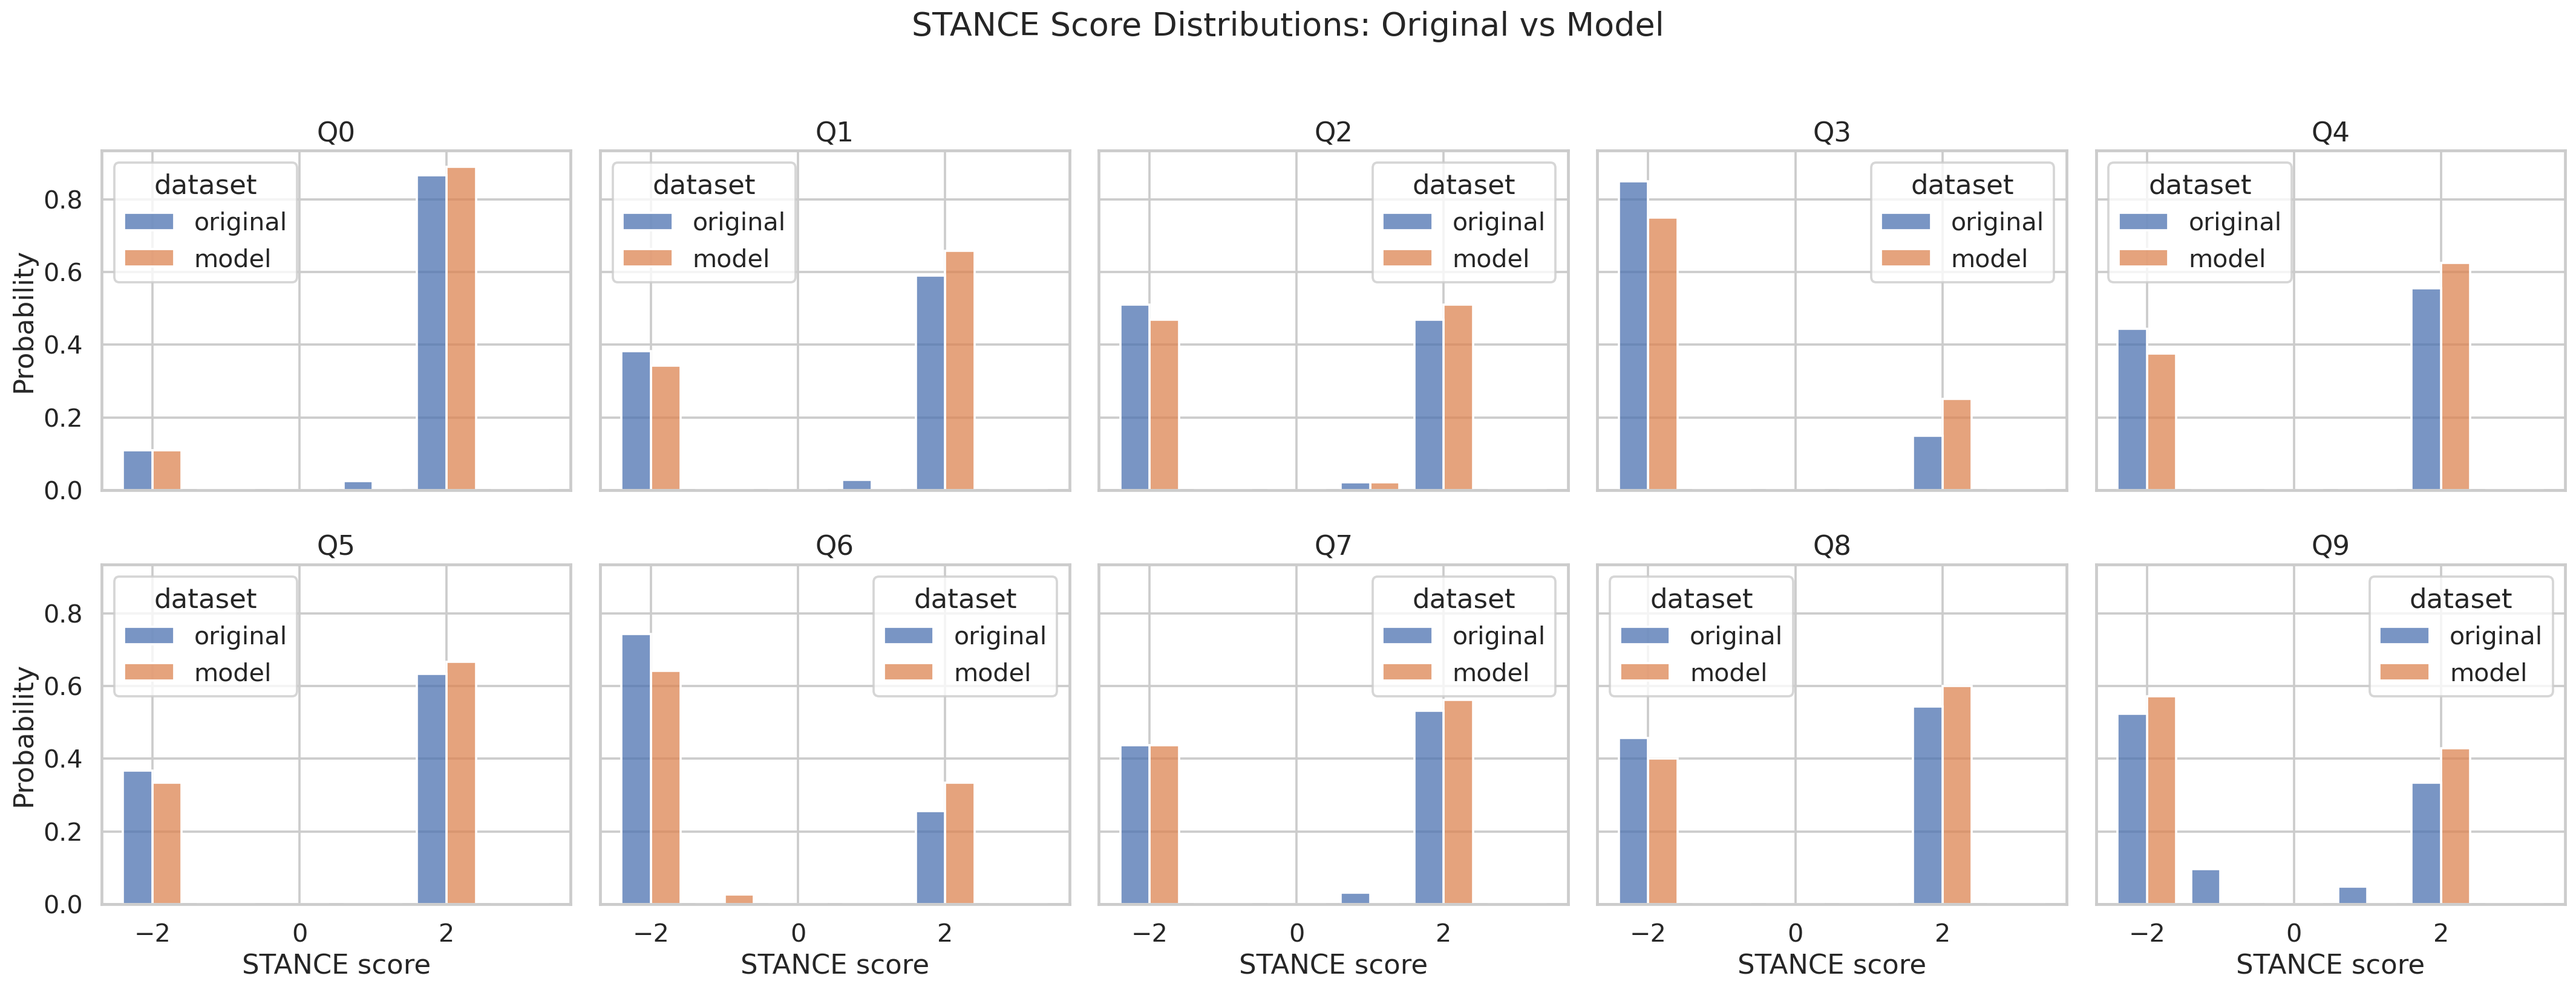
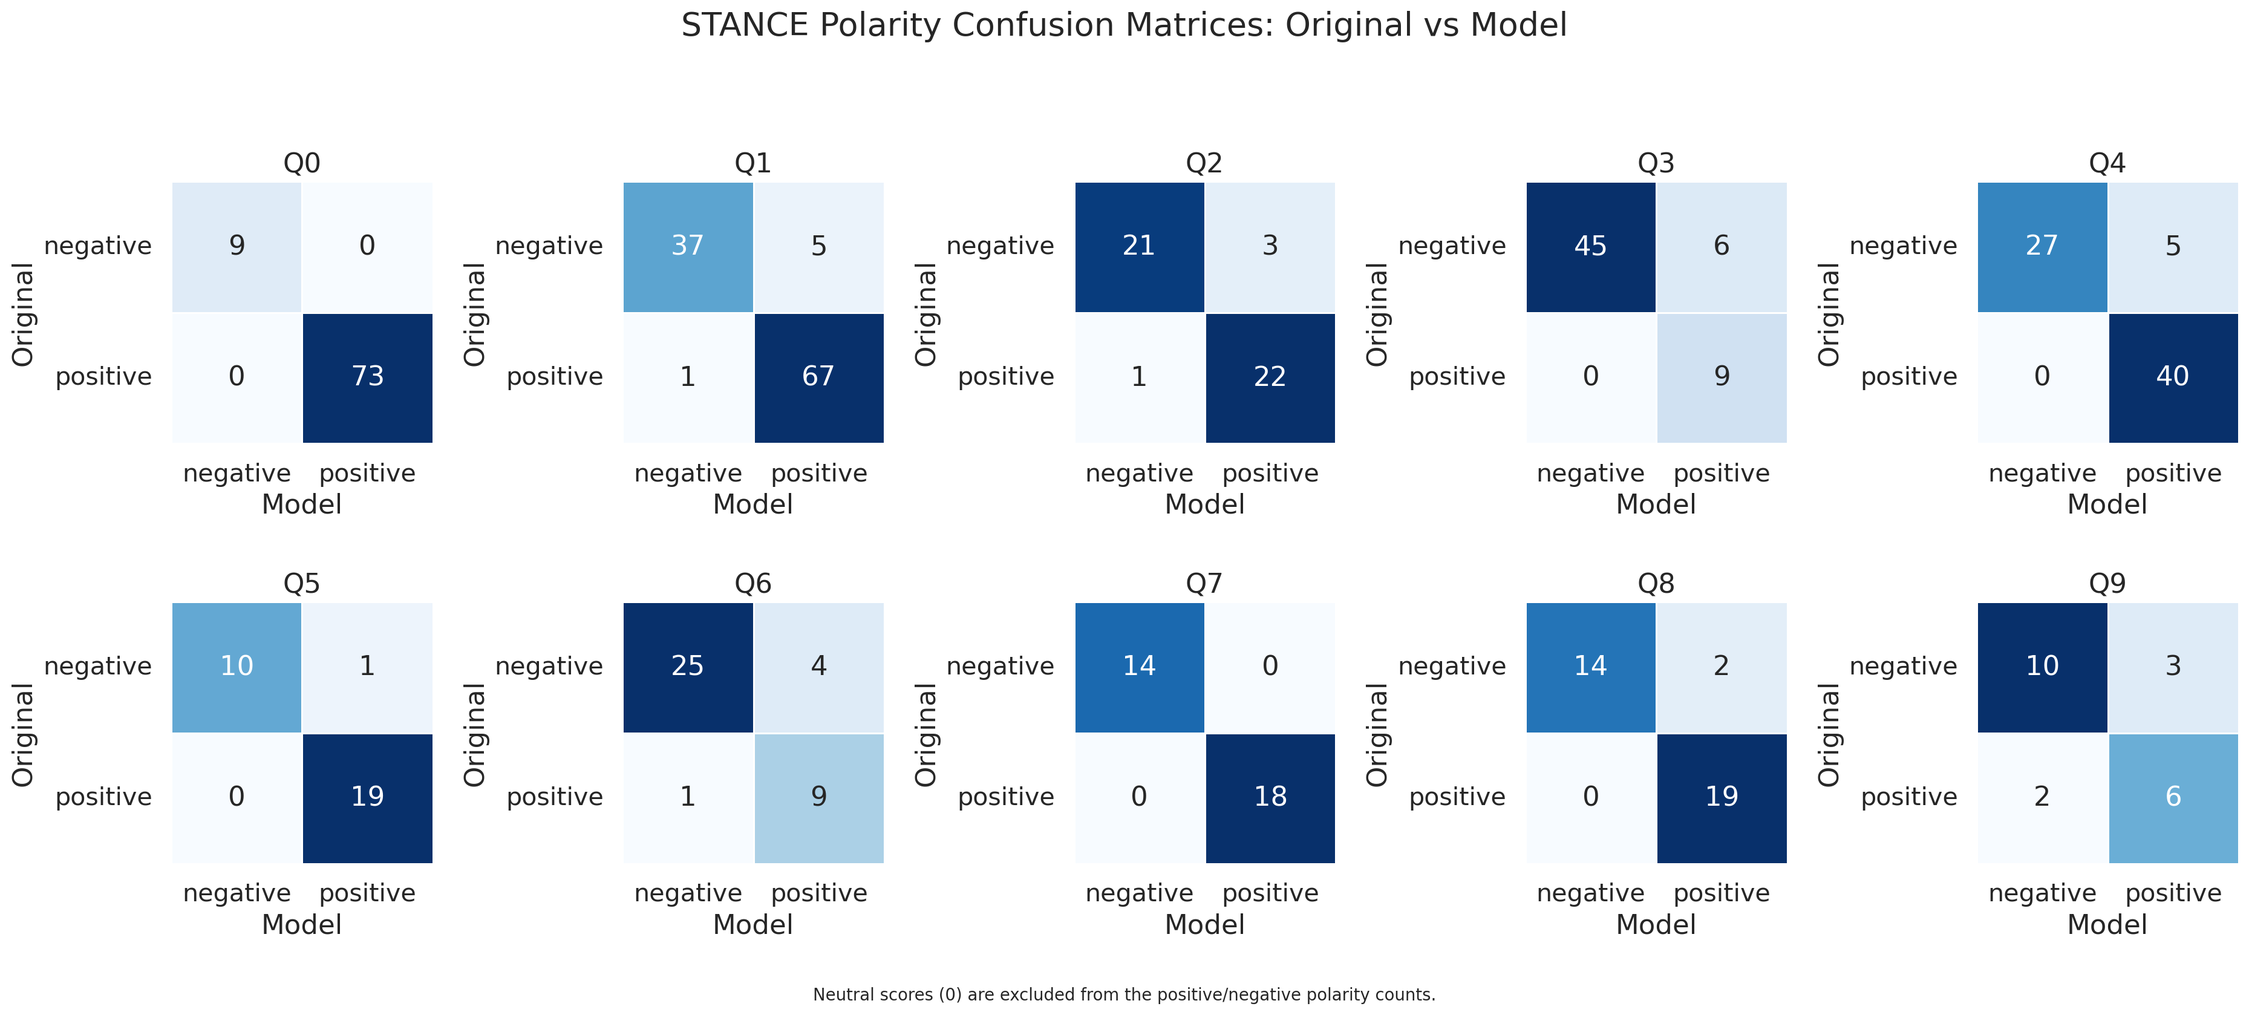
removed question duration from the graphs, changed stances summary graph by a confusion matrix

diff --git a/reports/gpt-4o-audio-preview-2025-06-03/detailed_report.html b/reports/gpt-4o-audio-preview-2025-06-03/detailed_report.html
@@ -44,7 +44,7 @@
 <p><strong>Mean STANCE diff:</strong> 0.1914 across 10 stances</p>
 <p><strong>Best explainable AUROC:</strong> lexical_mtld (0.9426)</p></section>
 <section class="card"><h3>Naturalistic</h3>
-<p><strong>Basic metrics:</strong> 2 metrics summarized</p>
+<p><strong>Basic metrics:</strong> 3 metrics summarized</p>
 <p><strong>Best explainable AUROC:</strong> lexical_mattr_large (0.9233)</p></section></div>
   </section>
 
@@ -117,6 +117,15 @@
       <td>1.4719</td>
       <td>1.288e-59</td>
       <td>1893</td>
+      <td>model-original mean difference; p-value is Welch t-test</td>
+    </tr>
+    <tr>
+      <td>naturalistic</td>
+      <td>latency</td>
+      <td>-769.1915</td>
+      <td>1464.8823</td>
+      <td>5.656e-111</td>
+      <td>2055</td>
       <td>model-original mean difference; p-value is Welch t-test</td>
     </tr>
   </tbody>
@@ -424,15 +433,6 @@
       <td>0.5810</td>
     </tr>
     <tr>
-      <td>question_end_time</td>
-      <td>0.0116</td>
-      <td>10.3238</td>
-      <td>0.9696</td>
-      <td>1151</td>
-      <td>0.5000</td>
-      <td>0.4998</td>
-    </tr>
-    <tr>
       <td>f0_p10</td>
       <td>-4.9432</td>
       <td>33.8736</td>
@@ -476,6 +476,15 @@
       <td>1082</td>
       <td>0.5116</td>
       <td>0.5266</td>
+    </tr>
+    <tr>
+      <td>lexical_hapax_ratio</td>
+      <td>-2.236e-05</td>
+      <td>0.2631</td>
+      <td>0.9977</td>
+      <td>1151</td>
+      <td>0.5300</td>
+      <td>0.5367</td>
     </tr>
   </tbody>
 </table><h3>Naturalistic</h3><h4>Highest AUROC Features</h4><table class="dataframe metric-table">
@@ -632,15 +641,6 @@
       <td>0.4269</td>
     </tr>
     <tr>
-      <td>question_end_time</td>
-      <td>0.0074</td>
-      <td>12.8024</td>
-      <td>0.9791</td>
-      <td>2055</td>
-      <td>0.5002</td>
-      <td>0.5001</td>
-    </tr>
-    <tr>
       <td>f0_median_raw</td>
       <td>-6.0808</td>
       <td>48.6001</td>
@@ -685,6 +685,15 @@
       <td>0.5270</td>
       <td>0.5403</td>
     </tr>
+    <tr>
+      <td>temporal_pause_ratio</td>
+      <td>-0.0083</td>
+      <td>0.0376</td>
+      <td>5.523e-21</td>
+      <td>1856</td>
+      <td>0.5270</td>
+      <td>0.5510</td>
+    </tr>
   </tbody>
 </table>
     <img class="figure" src="graphs/explainables.png" alt="Explainable feature violin plots" loading="lazy">
@@ -722,7 +731,6 @@
 <figure class="thumb"><img src="graphs/feat_graphs/lexical_total_words.png" alt="lexical_total_words" loading="lazy"><figcaption>lexical_total_words</figcaption></figure>
 <figure class="thumb"><img src="graphs/feat_graphs/lexical_ttr.png" alt="lexical_ttr" loading="lazy"><figcaption>lexical_ttr</figcaption></figure>
 <figure class="thumb"><img src="graphs/feat_graphs/lexical_unique_words.png" alt="lexical_unique_words" loading="lazy"><figcaption>lexical_unique_words</figcaption></figure>
-<figure class="thumb"><img src="graphs/feat_graphs/question_end_time.png" alt="question_end_time" loading="lazy"><figcaption>question_end_time</figcaption></figure>
 <figure class="thumb"><img src="graphs/feat_graphs/temporal_articulation_rate_wpm.png" alt="temporal_articulation_rate_wpm" loading="lazy"><figcaption>temporal_articulation_rate_wpm</figcaption></figure>
 <figure class="thumb"><img src="graphs/feat_graphs/temporal_articulation_rate_wps.png" alt="temporal_articulation_rate_wps" loading="lazy"><figcaption>temporal_articulation_rate_wps</figcaption></figure>
 <figure class="thumb"><img src="graphs/feat_graphs/temporal_pause_count.png" alt="temporal_pause_count" loading="lazy"><figcaption>temporal_pause_count</figcaption></figure>

diff --git a/bin/reports/generate_graphs.py b/bin/reports/generate_graphs.py
@@ -18,6 +18,7 @@ import seaborn as sns
 ORIGINAL = "original"
 SUBSETS = ["improvised", "naturalistic"]
 DATASET_PALETTE = {"original": "#4C72B0", "model": "#DD8452"}
+EXCLUDED_REPORT_METRICS = {"question_end_time"}
 
 sns.set_theme(style="whitegrid", context="talk")
 
@@ -235,7 +236,11 @@ def graph_feature_histograms(results_root: Path, model: str, output_dir: Path) -
         print("[WARN] No explainable feature summary found; skipping per-feature histograms.")
         return
 
-    features = sorted(str(feature) for feature in summary["feature"].dropna().unique())
+    features = sorted(
+        str(feature)
+        for feature in summary["feature"].dropna().unique()
+        if str(feature) not in EXCLUDED_REPORT_METRICS
+    )
     output_dir.mkdir(parents=True, exist_ok=True)
 
     for feature in features:
@@ -274,6 +279,12 @@ def graph_feature_histograms(results_root: Path, model: str, output_dir: Path) -
     print(f"Wrote per-feature histograms to {output_dir}")
 
 
+def stance_polarity(score: float) -> Optional[str]:
+    if pd.isna(score) or score == 0:
+        return None
+    return "positive" if score > 0 else "negative"
+
+
 def graph_stances(results_root: Path, model: str, output_path: Path) -> None:
     frame = safe_read_csv(merged_stances_csv(results_root, model, "improvised"))
     if frame is None or not {"question_index", "score_original", "score_llm"}.issubset(frame.columns):
@@ -283,35 +294,35 @@ def graph_stances(results_root: Path, model: str, output_path: Path) -> None:
     frame = frame.copy()
     frame["score_original"] = numeric(frame["score_original"])
     frame["score_llm"] = numeric(frame["score_llm"])
+    frame["original_polarity"] = frame["score_original"].map(stance_polarity)
+    frame["model_polarity"] = frame["score_llm"].map(stance_polarity)
     questions = list(range(10))
+    labels = ["negative", "positive"]
 
-    fig, axes = plt.subplots(2, 5, figsize=(24, 9), sharex=True, sharey=True)
+    fig, axes = plt.subplots(2, 5, figsize=(21, 9), sharex=False, sharey=False)
     axes_flat = axes.ravel()
     for ax, qidx in zip(axes_flat, questions):
-        sub = frame[frame["question_index"] == qidx]
-        plot_rows = []
-        if not sub.empty:
-            plot_rows.append(pd.DataFrame({"score": sub["score_original"], "dataset": "original"}))
-            plot_rows.append(pd.DataFrame({"score": sub["score_llm"], "dataset": "model"}))
-        if plot_rows:
-            plot_data = pd.concat(plot_rows, ignore_index=True).dropna(subset=["score"])
-            if not plot_data.empty:
-                sns.histplot(
-                    data=plot_data,
-                    x="score",
-                    hue="dataset",
-                    bins=np.arange(-2.5, 3.6, 1.0),
-                    stat="probability",
-                    multiple="dodge",
-                    shrink=0.8,
-                    common_norm=False,
-                    ax=ax,
-                )
+        sub = frame[frame["question_index"] == qidx].dropna(subset=["original_polarity", "model_polarity"])
+        counts = pd.crosstab(sub["original_polarity"], sub["model_polarity"]).reindex(index=labels, columns=labels, fill_value=0)
+        sns.heatmap(
+            counts,
+            annot=True,
+            fmt="d",
+            cmap="Blues",
+            cbar=False,
+            linewidths=0.5,
+            linecolor="white",
+            square=True,
+            ax=ax,
+        )
         ax.set_title(f"Q{qidx}")
-        ax.set_xlabel("STANCE score")
-        ax.set_ylabel("Probability")
-    fig.suptitle("STANCE Score Distributions: Original vs Model", y=1.02)
-    fig.tight_layout()
+        ax.set_xlabel("Model")
+        ax.set_ylabel("Original")
+        ax.tick_params(axis="x", rotation=0)
+        ax.tick_params(axis="y", rotation=0)
+    fig.suptitle("STANCE Polarity Confusion Matrices: Original vs Model", y=1.02)
+    fig.text(0.5, 0.01, "Neutral scores (0) are excluded from the positive/negative polarity counts.", ha="center", fontsize=11)
+    fig.tight_layout(rect=(0, 0.03, 1, 0.98))
     output_path.parent.mkdir(parents=True, exist_ok=True)
     fig.savefig(output_path, dpi=180, bbox_inches="tight")
     plt.close(fig)
@@ -400,7 +411,11 @@ def graph_explainable_scatter(results_root: Path, model: str, output_path: Path)
         if "subset" in summary.columns:
             features = sorted(str(feature) for feature in summary.loc[summary["subset"] == subset, "feature"].dropna().unique())
         else:
-            features = sorted(str(feature) for feature in summary["feature"].dropna().unique())
+            features = sorted(
+        str(feature)
+        for feature in summary["feature"].dropna().unique()
+        if str(feature) not in EXCLUDED_REPORT_METRICS
+    )
 
         pvalues = {}
         if subset in metrics_by_subset:

diff --git a/bin/reports/generate_short_report.py b/bin/reports/generate_short_report.py
@@ -13,6 +13,7 @@ from scipy.stats import ttest_ind, ttest_rel
 SUBSETS = ["improvised", "naturalistic"]
 SPLITS = ["dev", "test"]
 ORIGINAL = "original"
+EXCLUDED_REPORT_METRICS = {"question_end_time"}
 
 
 def safe_read_csv(path: Path) -> Optional[pd.DataFrame]:
@@ -151,25 +152,19 @@ def setup_section(args, text_lines: List[str]) -> None:
 def data_statistics_section(args, text_lines: List[str]) -> None:
     text_lines.append("Data Statistics")
     text_lines.append("---------------")
-    text_lines.append("model\tsplit\tsubset\tutterances\ttotal_audio_hours\tanswer_audio_hours")
+    text_lines.append("model	split	subset	utterances	total_audio_hours")
     for model in [ORIGINAL, args.model]:
         for split in SPLITS:
             for subset in SUBSETS:
                 path = args.data_root / "outputs" / model / split / subset / f"{split}_{subset}_metadata.csv"
                 frame = safe_read_csv(path)
                 if frame is None:
-                    text_lines.append(f"{model}\t{split}\t{subset}\tmissing\tmissing\tmissing")
+                    text_lines.append(f"{model}	{split}	{subset}	missing	missing")
                     continue
 
                 n_rows = len(frame)
                 duration = numeric(frame["total_duration"]).sum() if "total_duration" in frame else np.nan
-                answer_duration = np.nan
-                if {"total_duration", "question_end_time"}.issubset(frame.columns):
-                    answer_duration = (numeric(frame["total_duration"]) - numeric(frame["question_end_time"])).clip(lower=0).sum()
-
-                text_lines.append(
-                    f"{model}\t{split}\t{subset}\t{n_rows}\t{duration / 3600.0:.2f}\t{answer_duration / 3600.0:.2f}"
-                )
+                text_lines.append(f"{model}	{split}	{subset}	{n_rows}	{duration / 3600.0:.2f}")
     text_lines.append("")
 
 
@@ -339,6 +334,7 @@ def explainable_features_section(args, metrics_by_subset: Dict[str, List[Dict[st
         return
 
     frame = frame.copy()
+    frame = frame[~frame["feature"].astype(str).isin(EXCLUDED_REPORT_METRICS)]
     frame["auroc"] = numeric(frame["auroc"])
     frame["accuracy"] = numeric(frame["accuracy"]) if "accuracy" in frame else np.nan
     frame = frame.dropna(subset=["auroc"])

diff --git a/bin/reports/generate_html_report.py b/bin/reports/generate_html_report.py
@@ -10,6 +10,7 @@ import pandas as pd
 
 
 SUBSETS = ["improvised", "naturalistic"]
+EXCLUDED_REPORT_METRICS = {"question_end_time"}
 
 
 def safe_read_csv(path: Path) -> Optional[pd.DataFrame]:
@@ -46,6 +47,8 @@ def table_html(frame: Optional[pd.DataFrame], columns=None, max_rows: Optional[i
     if frame is None or frame.empty:
         return '<p class="muted">No data available.</p>'
     view = frame.copy()
+    if "metric" in view.columns:
+        view = view[~view["metric"].astype(str).isin(EXCLUDED_REPORT_METRICS)]
     if columns is not None:
         view = view[[col for col in columns if col in view.columns]]
     if max_rows is not None:
@@ -138,6 +141,8 @@ def metric_rows(metrics: dict[str, Optional[pd.DataFrame]], section: str) -> pd.
         if frame is None or frame.empty or "section" not in frame.columns:
             continue
         sub = frame[frame["section"] == section].copy()
+        if "metric" in sub.columns:
+            sub = sub[~sub["metric"].astype(str).isin(EXCLUDED_REPORT_METRICS)]
         if sub.empty:
             continue
         sub.insert(0, "subset", subset)
@@ -150,6 +155,8 @@ def top_bottom_explainables(metrics: dict[str, Optional[pd.DataFrame]], subset: 
     if frame is None or frame.empty or "section" not in frame.columns or "auroc" not in frame.columns:
         return pd.DataFrame()
     sub = frame[frame["section"] == "Explainable Features"].copy()
+    if "metric" in sub.columns:
+        sub = sub[~sub["metric"].astype(str).isin(EXCLUDED_REPORT_METRICS)]
     sub["auroc"] = pd.to_numeric(sub["auroc"], errors="coerce")
     sub = sub.dropna(subset=["auroc"])
     return sub.sort_values("auroc", ascending=not highest).head(10)
@@ -165,7 +172,7 @@ def feature_gallery(report_dir: Path) -> str:
     graph_dir = report_dir / "graphs" / "feat_graphs"
     if not graph_dir.exists():
         return '<p class="muted">No per-feature graph directory found.</p>'
-    images = sorted(graph_dir.glob("*.png"))
+    images = [image for image in sorted(graph_dir.glob("*.png")) if image.stem not in EXCLUDED_REPORT_METRICS]
     if not images:
         return '<p class="muted">No per-feature graphs found.</p>'
     cards = []
